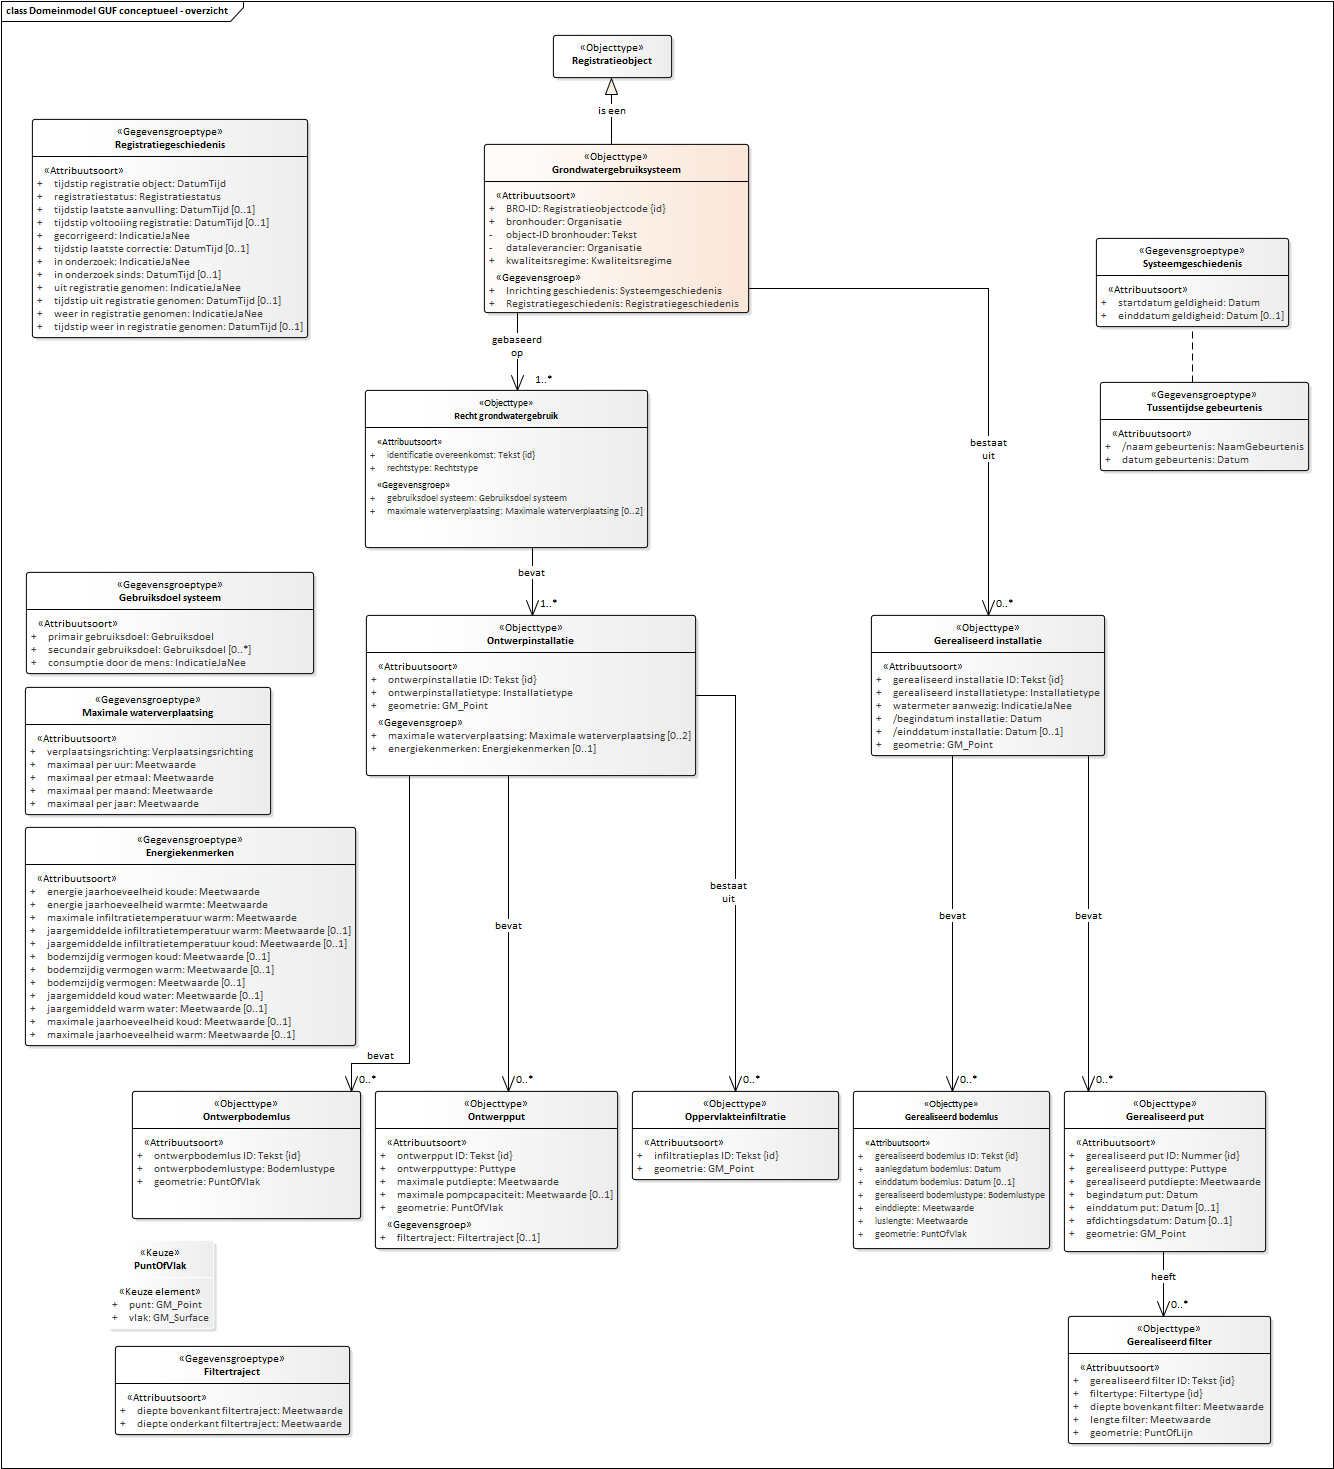
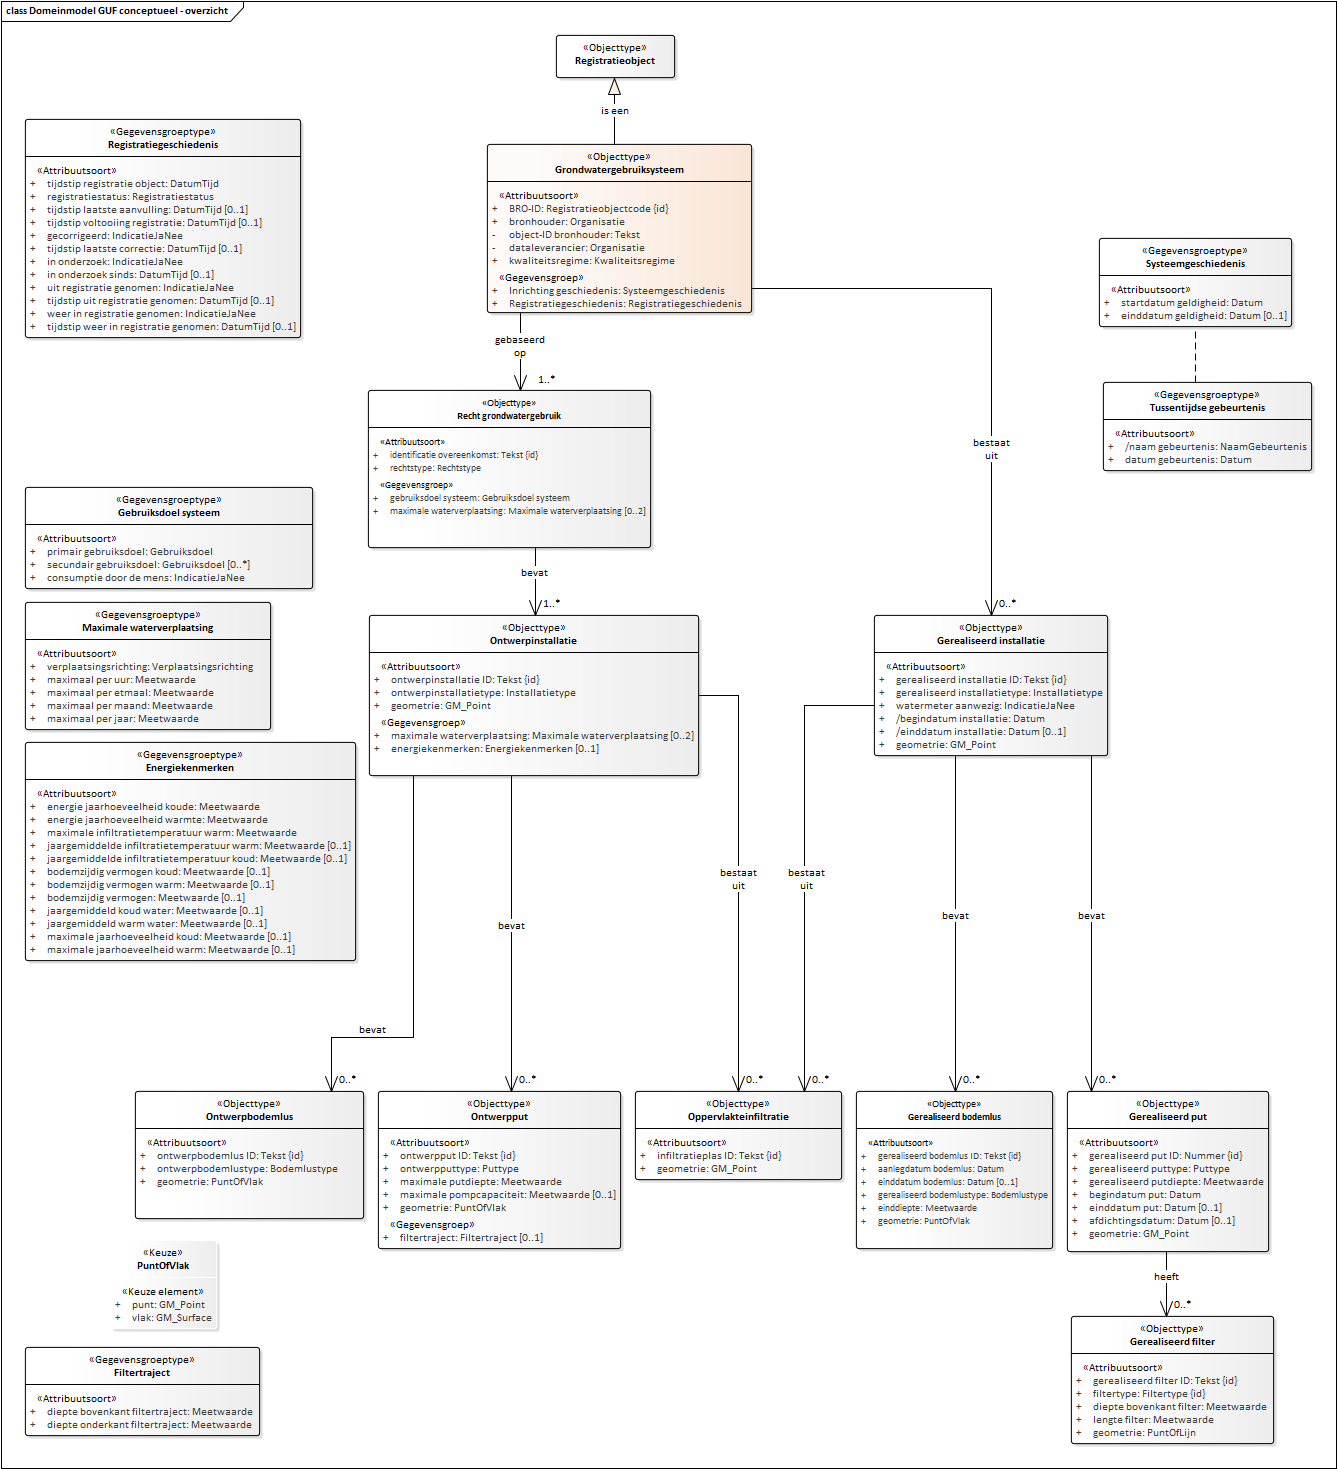
Conceptualmodel-GrondwatergebruikGUFconceptueel-0.1-1-20200401-20201217-143652

diff --git a/data/GUF-cat.msword.html b/data/GUF-cat.msword.html
@@ -15,7 +15,7 @@
    <body>
       <p>Conceptual model/Grondwatergebruik (GUF) conceptueel/20200401</p>
       <p>Imvertor: 1.62.2</p>
-      <p>Model release: Conceptualmodel-GrondwatergebruikGUFconceptueel-0.1-1-20200401-20201217-120549</p>
+      <p>Model release: Conceptualmodel-GrondwatergebruikGUFconceptueel-0.1-1-20200401-20201217-143652</p>
       <hr>
       <section>
          <h1>Artikel 1 Definitie van registratieobject, entiteiten en attributen</h1>
@@ -63,7 +63,7 @@
          <section>
             <h2>Het domeinmodel</h2>
             <section id="">
-               <div class="imageinfo overview"><img src="Images/EAID_56F5F935_4109_4da0_A034_9EA7B40769E1.png" usemap="#imagemap-EAID_56F5F935_4109_4da0_A034_9EA7B40769E1" alt="Diagram "><map name="imagemap-EAID_56F5F935_4109_4da0_A034_9EA7B40769E1"><area shape="rect" alt="Oppervlakteinfiltratie" coords="632,1091,839,1180" href="#graph_EAID_48E92D7E_DFE4_4e1a_9CBF_EF96B0324D5C"><area shape="rect" alt="Filtertraject" coords="115,1346,350,1435" href="#graph_EAID_F9C69DF7_57F6_4a2e_AB62_ABBE414B3C9B"><area shape="rect" alt="Tussentijdse gebeurtenis" coords="1100,382,1309,471" href="#graph_EAID_98E530BE_5699_451a_8FC6_9C326ADD0528"><area shape="rect" alt="Systeemgeschiedenis" coords="1096,238,1289,327" href="#graph_EAID_2BD94CFC_4D2B_498d_96DC_DF9DE395E7C4"><area shape="rect" alt="Ontwerpbodemlus" coords="132,1091,361,1219" href="#graph_EAID_B81BCB5C_B9C7_42d9_9F9E_3F76580BB410"><area shape="rect" alt="Ontwerpput" coords="375,1091,618,1249" href="#graph_EAID_FC483397_9430_4114_AE54_A7BE5A654EA9"><area shape="rect" alt="Energiekenmerken" coords="25,827,356,1046" href="#graph_EAID_F60FFCA9_A741_4d37_8DFE_FC87122B9777"><area shape="rect" alt="Maximale waterverplaatsing" coords="25,687,271,815" href="#graph_EAID_D88F2231_8D52_4bac_AE7F_55102360A23B"><area shape="rect" alt="Gebruiksdoel systeem" coords="26,572,314,674" href="#graph_EAID_DB9B3E32_EE42_4c47_A5CC_5AE7B58A2D13"><area shape="rect" alt="Gerealiseerd installatie" coords="871,615,1105,756" href="#graph_EAID_45C4EF5D_AC27_47cc_926D_7F514776B53D"><area shape="rect" alt="Gerealiseerd filter" coords="1068,1316,1271,1444" href="#graph_EAID_9D151445_53ED_4738_9920_071518BB50C1"><area shape="rect" alt="Recht grondwatergebruik" coords="365,390,648,548" href="#graph_EAID_1A591F8A_2ECC_4122_86C9_26BFA5C5420E"><area shape="rect" alt="Gerealiseerd put" coords="1064,1091,1266,1252" href="#graph_EAID_F75BA1C9_02EB_48e6_B9A8_A018120E2279"><area shape="rect" alt="Gerealiseerd bodemlus" coords="853,1091,1050,1249" href="#graph_EAID_D45703EE_CCD5_434c_A478_BFA48D1A9DCB"><area shape="rect" alt="Ontwerpinstallatie" coords="366,615,696,776" href="#graph_EAID_DB2636FB_090C_4af0_AA40_4301B23795E2"><area shape="rect" alt="Registratiegeschiedenis" coords="32,119,308,338" href="#graph_EAID_C00FA7D7_7F78_413d_80CC_8F5D41996171"><area shape="rect" alt="Grondwatergebruiksysteem" coords="484,144,749,313" href="#graph_EAID_048DC684_486B_4605_B9CA_40413DB3C9DC"><area shape="rect" alt="Registratieobject" coords="553,35,672,78" href="#graph_EAID_2AC7632D_D0CE_4468_8510_855B506BE12A"></map><p><b>Domeinmodel GUF conceptueel</b></p>
+               <div class="imageinfo overview"><img src="Images/EAID_56F5F935_4109_4da0_A034_9EA7B40769E1.png" usemap="#imagemap-EAID_56F5F935_4109_4da0_A034_9EA7B40769E1" alt="Diagram "><map name="imagemap-EAID_56F5F935_4109_4da0_A034_9EA7B40769E1"><area shape="rect" alt="Oppervlakteinfiltratie" coords="635,1091,842,1180" href="#graph_EAID_48E92D7E_DFE4_4e1a_9CBF_EF96B0324D5C"><area shape="rect" alt="Filtertraject" coords="25,1347,260,1436" href="#graph_EAID_F9C69DF7_57F6_4a2e_AB62_ABBE414B3C9B"><area shape="rect" alt="Tussentijdse gebeurtenis" coords="1103,382,1312,471" href="#graph_EAID_98E530BE_5699_451a_8FC6_9C326ADD0528"><area shape="rect" alt="Systeemgeschiedenis" coords="1099,238,1292,327" href="#graph_EAID_2BD94CFC_4D2B_498d_96DC_DF9DE395E7C4"><area shape="rect" alt="Ontwerpbodemlus" coords="135,1091,364,1219" href="#graph_EAID_B81BCB5C_B9C7_42d9_9F9E_3F76580BB410"><area shape="rect" alt="Ontwerpput" coords="378,1091,621,1249" href="#graph_EAID_FC483397_9430_4114_AE54_A7BE5A654EA9"><area shape="rect" alt="Energiekenmerken" coords="25,742,356,961" href="#graph_EAID_F60FFCA9_A741_4d37_8DFE_FC87122B9777"><area shape="rect" alt="Maximale waterverplaatsing" coords="25,602,271,730" href="#graph_EAID_D88F2231_8D52_4bac_AE7F_55102360A23B"><area shape="rect" alt="Gebruiksdoel systeem" coords="25,487,313,589" href="#graph_EAID_DB9B3E32_EE42_4c47_A5CC_5AE7B58A2D13"><area shape="rect" alt="Gerealiseerd installatie" coords="874,615,1108,756" href="#graph_EAID_45C4EF5D_AC27_47cc_926D_7F514776B53D"><area shape="rect" alt="Gerealiseerd filter" coords="1071,1316,1274,1444" href="#graph_EAID_9D151445_53ED_4738_9920_071518BB50C1"><area shape="rect" alt="Recht grondwatergebruik" coords="368,390,651,548" href="#graph_EAID_1A591F8A_2ECC_4122_86C9_26BFA5C5420E"><area shape="rect" alt="Gerealiseerd put" coords="1067,1091,1269,1252" href="#graph_EAID_F75BA1C9_02EB_48e6_B9A8_A018120E2279"><area shape="rect" alt="Gerealiseerd bodemlus" coords="856,1091,1053,1249" href="#graph_EAID_D45703EE_CCD5_434c_A478_BFA48D1A9DCB"><area shape="rect" alt="Ontwerpinstallatie" coords="369,615,699,776" href="#graph_EAID_DB2636FB_090C_4af0_AA40_4301B23795E2"><area shape="rect" alt="Registratiegeschiedenis" coords="25,119,301,338" href="#graph_EAID_C00FA7D7_7F78_413d_80CC_8F5D41996171"><area shape="rect" alt="Grondwatergebruiksysteem" coords="487,144,752,313" href="#graph_EAID_048DC684_486B_4605_B9CA_40413DB3C9DC"><area shape="rect" alt="Registratieobject" coords="556,35,675,78" href="#graph_EAID_2AC7632D_D0CE_4468_8510_855B506BE12A"></map><p><b>Domeinmodel GUF conceptueel</b></p>
                </div>
             </section>
          </section>
@@ -425,7 +425,7 @@
                            </tr>
                         </tbody>
                      </table>
-                     </section><a class="anchor" id="detail_d46682e1635"></a><section id="detail_d46682e1635">
+                     </section><a class="anchor" id="detail_d46575e1635"></a><section id="detail_d46575e1635">
                      <h4>  Inrichting geschiedenis</h4>
                      
                      
@@ -478,7 +478,7 @@
                            </tr>
                         </tbody>
                      </table>
-                     </section><a class="anchor" id="detail_d46682e1866"></a><section id="detail_d46682e1866">
+                     </section><a class="anchor" id="detail_d46575e1866"></a><section id="detail_d46575e1866">
                      <h4>  Registratiegeschiedenis</h4>
                      
                      
@@ -1481,7 +1481,7 @@
                            </tr>
                         </tbody>
                      </table>
-                     </section><a class="anchor" id="detail_d46682e5640"></a><section id="detail_d46682e5640">
+                     </section><a class="anchor" id="detail_d46575e5640"></a><section id="detail_d46575e5640">
                      <h4>  gebruiksdoel systeem</h4>
                      
                      
@@ -1526,7 +1526,7 @@
                            </tr>
                         </tbody>
                      </table>
-                     </section><a class="anchor" id="detail_d46682e5830"></a><section id="detail_d46682e5830">
+                     </section><a class="anchor" id="detail_d46575e5830"></a><section id="detail_d46575e5830">
                      <h4>  maximale waterverplaatsing</h4>
                      
                      
@@ -2238,7 +2238,7 @@
                            </tr>
                         </tbody>
                      </table>
-                     </section><a class="anchor" id="detail_association_Model_Ontwerpinstallatie_gerelateerdeInfiltratieplas"></a><section id="detail_association_Model_Ontwerpinstallatie_gerelateerdeInfiltratieplas">
+                     </section><a class="anchor" id="detail_association_Model_Ontwerpinstallatie_gerelateerdeOppervlakteInfiltratie"></a><section id="detail_association_Model_Ontwerpinstallatie_gerelateerdeOppervlakteInfiltratie">
                      <h4>  bestaat uit</h4>
                      
                      
@@ -2254,7 +2254,7 @@
                               <th>Definitie</th>
                               <td>
                                  
-                                 <p>Unieke aanduiding van een gerelateerde Infiltratieplas waaruit het Grondwatergebruiksysteem
+                                 <p>Unieke aanduiding van een gerelateerde OppervlakteInfiltratie waaruit de Ontwerpinstallatie
                                     bestaat.</p>
                                  </td>
                            </tr>
@@ -2272,7 +2272,7 @@
                            </tr>
                            <tr>
                               <th>Relatierol naam</th>
-                              <td>gerelateerdeInfiltratieplas</td>
+                              <td>gerelateerdeOppervlakteInfiltratie</td>
                            </tr>
                            <tr>
                               <th>Source</th>
@@ -2360,7 +2360,7 @@
                            </tr>
                         </tbody>
                      </table>
-                     </section><a class="anchor" id="detail_d46682e8811"></a><section id="detail_d46682e8811">
+                     </section><a class="anchor" id="detail_d46575e8811"></a><section id="detail_d46575e8811">
                      <h4>  maximale waterverplaatsing</h4>
                      
                      
@@ -2426,7 +2426,7 @@
                            </tr>
                         </tbody>
                      </table>
-                     </section><a class="anchor" id="detail_d46682e9085"></a><section id="detail_d46682e9085">
+                     </section><a class="anchor" id="detail_d46575e9085"></a><section id="detail_d46575e9085">
                      <h4>  energiekenmerken</h4>
                      
                      
@@ -3262,7 +3262,7 @@
                               <th>Definitie</th>
                               <td>
                                  
-                                 <p>Tweedimensionale (2D) punt- of lijngeometrie van een ontwerpbodemlus.</p>
+                                 <p>Tweedimensionale (2D) punt- of vlakgeometrie van een ontwerpbodemlus.</p>
                                  </td>
                            </tr>
                            <tr>
@@ -3583,7 +3583,7 @@
                            </tr>
                         </tbody>
                      </table>
-                     </section><a class="anchor" id="detail_d46682e13327"></a><section id="detail_d46682e13327">
+                     </section><a class="anchor" id="detail_d46575e13340"></a><section id="detail_d46575e13340">
                      <h4>  filtertraject</h4>
                      
                      
@@ -3839,7 +3839,7 @@
                               <th>Definitie</th>
                               <td>
                                  
-                                 <p>Een puntlocatie van de infiltratieplas of het infiltratiekanaal.</p>
+                                 <p>Een tweedimensionale puntlocatie van de infiltratieplas of het infiltratiekanaal.</p>
                                  </td>
                            </tr>
                            <tr>
@@ -4206,6 +4206,52 @@
                            </tr>
                         </tbody>
                      </table>
+                     </section><a class="anchor" id="detail_association_Model_Gerealiseerdinstallatie_gerelateerdeOppervlakteInfiltratie"></a><section id="detail_association_Model_Gerealiseerdinstallatie_gerelateerdeOppervlakteInfiltratie">
+                     <h4>  bestaat uit</h4>
+                     
+                     
+                     <table style="width: 100%;">
+                        <colgroup style="width: 30%;"></colgroup>
+                        <colgroup style="width: 70%;"></colgroup>
+                        <tbody>
+                           <tr>
+                              <th>Type gegeven</th>
+                              <td>Associatie van Gerealiseerd installatie</td>
+                           </tr>
+                           <tr>
+                              <th>Definitie</th>
+                              <td>
+                                 
+                                 <p>Unieke aanduiding van een gerelateerde OppervlakteInfiltratie waaruit de Gerelateerd
+                                    installatie bestaat.</p>
+                                 </td>
+                           </tr>
+                           <tr>
+                              <th>Juridische status</th>
+                              <td>Authentiek</td>
+                           </tr>
+                           <tr>
+                              <th>Kardinaliteit</th>
+                              <td>0..*</td>
+                           </tr>
+                           <tr>
+                              <th>Relatiesoort naam</th>
+                              <td>bestaat uit</td>
+                           </tr>
+                           <tr>
+                              <th>Relatierol naam</th>
+                              <td>gerelateerdeOppervlakteInfiltratie</td>
+                           </tr>
+                           <tr>
+                              <th>Source</th>
+                              <td>Gerealiseerd installatie</td>
+                           </tr>
+                           <tr>
+                              <th>Target</th>
+                              <td>bestaat uit</td>
+                           </tr>
+                        </tbody>
+                     </table>
                      </section><a class="anchor" id="detail_association_Model_Gerealiseerdinstallatie_gerelateerdeGerealiseerdeBodemlus"></a><section id="detail_association_Model_Gerealiseerdinstallatie_gerelateerdeGerealiseerdeBodemlus">
                      <h4>  bevat</h4>
                      
@@ -4484,59 +4530,6 @@
                            </tr>
                         </tbody>
                      </table>
-                     </section><a class="anchor" id="detail_attribute_Model_Gerealiseerdbodemlus_luslengte"></a><section id="detail_attribute_Model_Gerealiseerdbodemlus_luslengte">
-                     <h4>  luslengte</h4>
-                     
-                     <table style="width: 100%;">
-                        <colgroup style="width: 30%;"></colgroup>
-                        <colgroup style="width: 70%;"></colgroup>
-                        <tbody>
-                           <tr>
-                              <th>Type gegeven</th>
-                              <td>Attribuut van Gerealiseerd bodemlus</td>
-                           </tr>
-                           <tr>
-                              <th>Definitie</th>
-                              <td>
-                                 
-                                 <p>De totale lengte van de gerealiseerde bodemlus.</p>
-                                 </td>
-                           </tr>
-                           <tr>
-                              <th>Juridische status</th>
-                              <td>Authentiek</td>
-                           </tr>
-                           <tr>
-                              <th>Kardinaliteit</th>
-                              <td>1</td>
-                           </tr>
-                           <tr>
-                              <th>Domein</th>
-                              <td></td>
-                           </tr>
-                           <tr>
-                              <th>&nbsp;&nbsp;Naam</th>
-                              <td>Meetwaarde 
-                                 3.0</td>
-                           </tr>
-                           <tr>
-                              <th>&nbsp;&nbsp;Eenheid</th>
-                              <td>m (meter)</td>
-                           </tr>
-                           <tr>
-                              <th>&nbsp;&nbsp;Waardebereik</th>
-                              <td> vanaf 0</td>
-                           </tr>
-                           <tr>
-                              <th>Toelichting</th>
-                              <td>
-                                 
-                                 <p>Bij een verticale bodemlus zal dit twee keer de einddiepte zijn. Bij een korf en een
-                                    horizontale bodemlus heeft de luslengte geen relatie met de einddiepte.</p>
-                                 </td>
-                           </tr>
-                        </tbody>
-                     </table>
                      </section><a class="anchor" id="detail_attribute_Model_Gerealiseerdbodemlus_geometrie"></a><section id="detail_attribute_Model_Gerealiseerdbodemlus_geometrie">
                      <h4>  geometrie</h4>
                      
@@ -4552,7 +4545,7 @@
                               <th>Definitie</th>
                               <td>
                                  
-                                 <p>Tweedimensionale punt- of lijngeometrie van de gerealiseerde bodemlus.</p>
+                                 <p>Tweedimensionale (2D) punt- of vlakgeometrie van een ontwerpbodemlus.</p>
                                  </td>
                            </tr>
                            <tr>
@@ -5247,10 +5240,11 @@
                               <td>PuntOfLijn</td>
                            </tr>
                            <tr>
-                              <th>Toelichting</th>
+                              <th>Regels</th>
                               <td>
                                  
-                                 <p>Todo: wanneer lijn en wanneer vlak</p>
+                                 <p>Het attribuut heeft een <em>lijn</em>-geometrie wanneer het attribuut <em>filtertype</em> de waarde <em>horizontaal</em> heeft.
+                                    In alle andere gevallen heeft het attribuut een <em>punt</em>-geometrie.</p>
                                  </td>
                            </tr>
                         </tbody>
